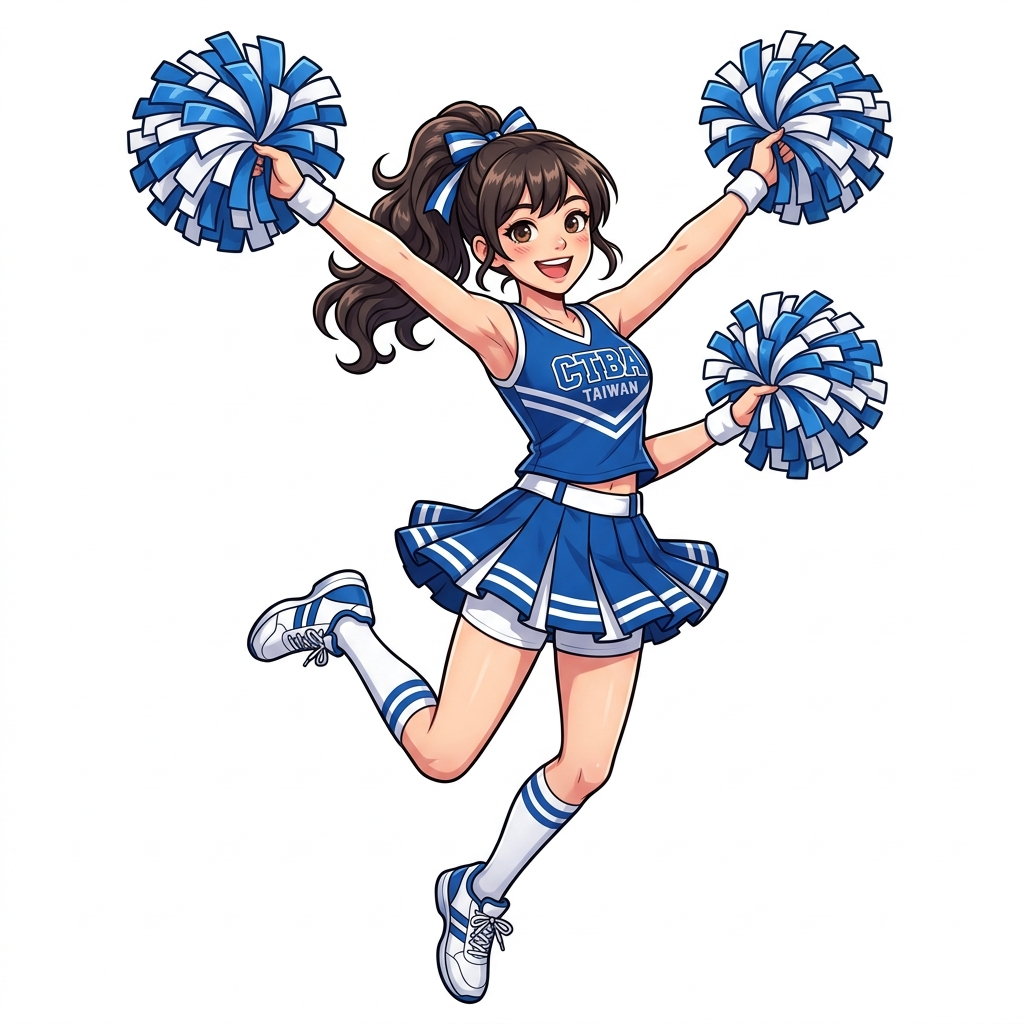
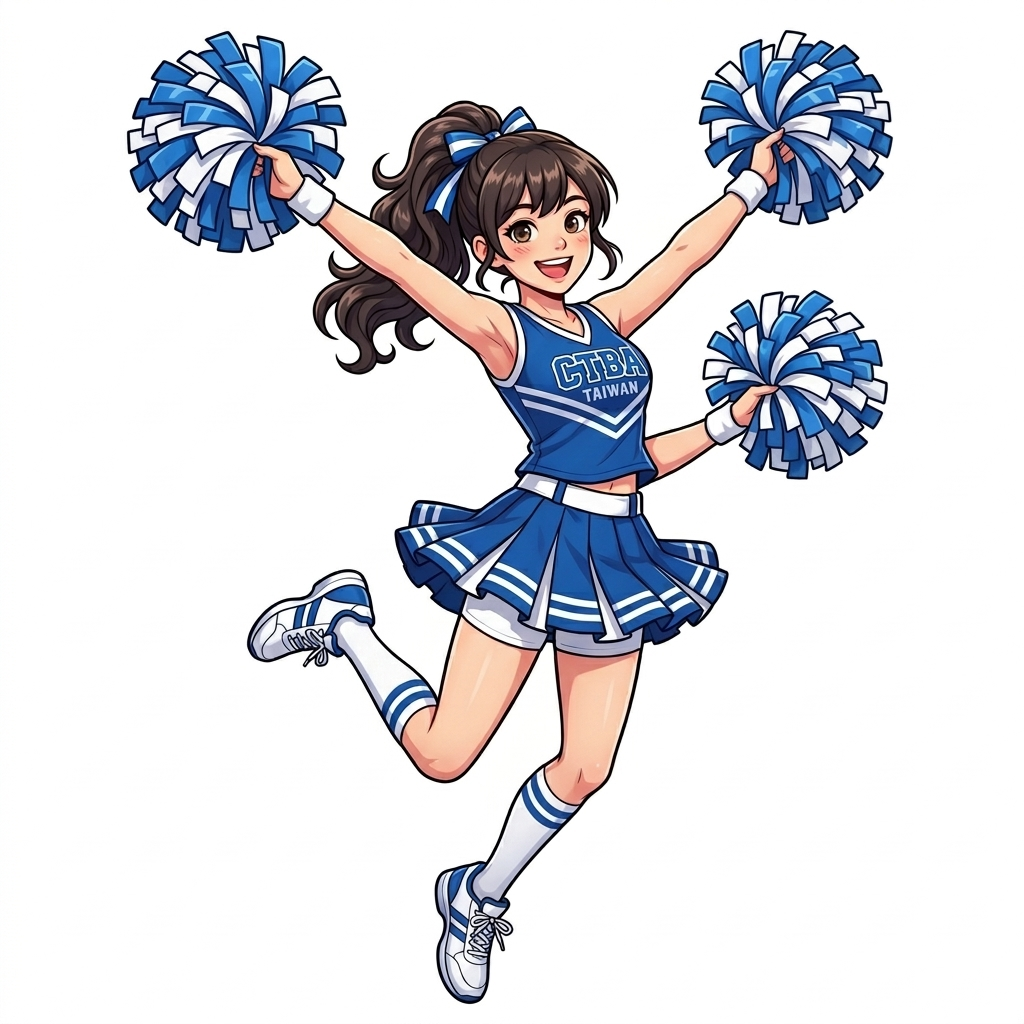
feat: add Mimi and Wenwen to cheerleaders, fix hands in like.png

Changed region(s): [[0.5312, 0.3438, 0.625, 0.375], [0.4375, 0.875, 0.5, 0.9375], [0.2812, 0.5938, 0.3125, 0.6562]]

diff --git a/cheerleader/app.js b/cheerleader/app.js
@@ -1596,6 +1596,36 @@ const cheerleaders = [
     "image": "assets/emily.png",
     "bio": "為 樂天桃猿 Rakuten Girls 的人氣隊員，擁有活潑開朗的性格與熱情洋溢的笑容。在場上賣力應援，擅長與球迷互動，舞蹈實力突出，深得粉絲愛戴。",
     "direction": "高階時尚服飾模特兒、跨國文化與旅遊宣傳推廣、舞蹈教學、運動健康食品代言人。"
+  },
+  {
+    "id": "mimi",
+    "name": "冞冞 (Mimi)",
+    "nameEn": "Mimi",
+    "team": "統一獅 Uni-Girls",
+    "leagues": [
+      "cpbl"
+    ],
+    "nationality": "taiwan",
+    "popularity": 350000,
+    "emoji": "💫",
+    "image": "assets/se7en.png",
+    "bio": "統一獅 Uni-Girls 的超人氣成員，以甜美的笑容與精湛的舞技深受球迷喜愛。在看台上充滿活力的應援表現，具有強大的渲染力與親和力。",
+    "direction": "個人自媒體經營、商業活動主持、美妝與穿搭代言、運動休閒推廣。"
+  },
+  {
+    "id": "wenwen",
+    "name": "汶汶 (Wenwen)",
+    "nameEn": "Wenwen",
+    "team": "中信兄弟 Passion Sisters",
+    "leagues": [
+      "cpbl"
+    ],
+    "nationality": "taiwan",
+    "popularity": 360000,
+    "emoji": "🐘",
+    "image": "assets/qunqun.png",
+    "bio": "中信兄弟 Passion Sisters 的活力成員，以青春亮麗的外型與充滿陽光朝氣的笑容為特色。在球場上展現滿滿的熱情，與球迷的互動親切又自然。",
+    "direction": "綜藝節目嘉賓、平面模特兒、品牌大使、自媒體經營與舞蹈表演。"
   }
 ];
 